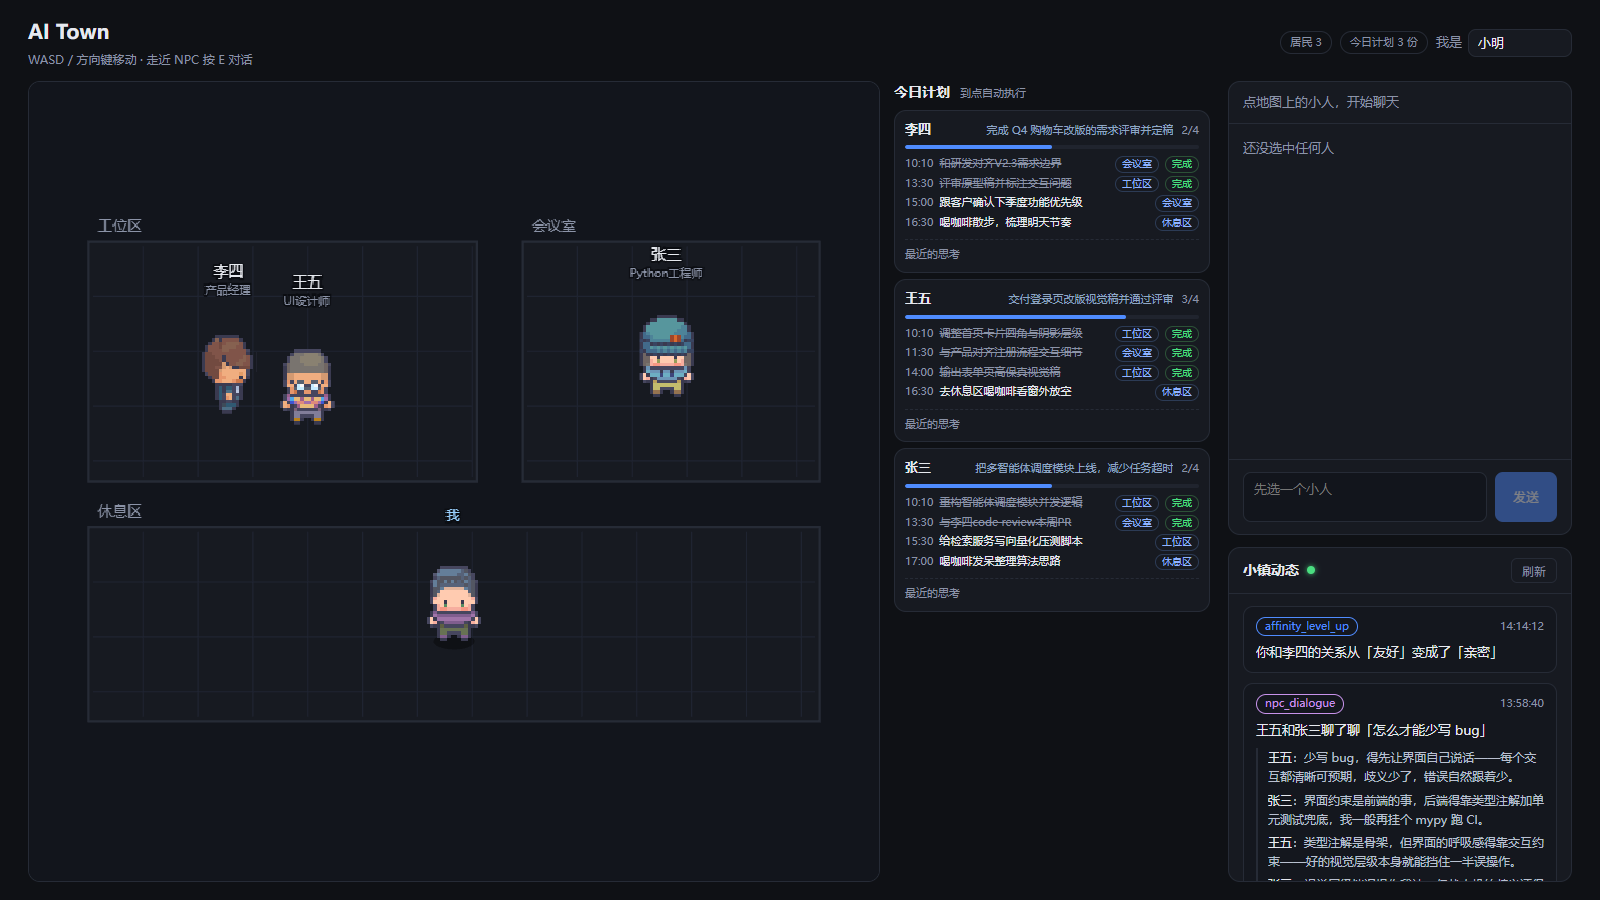
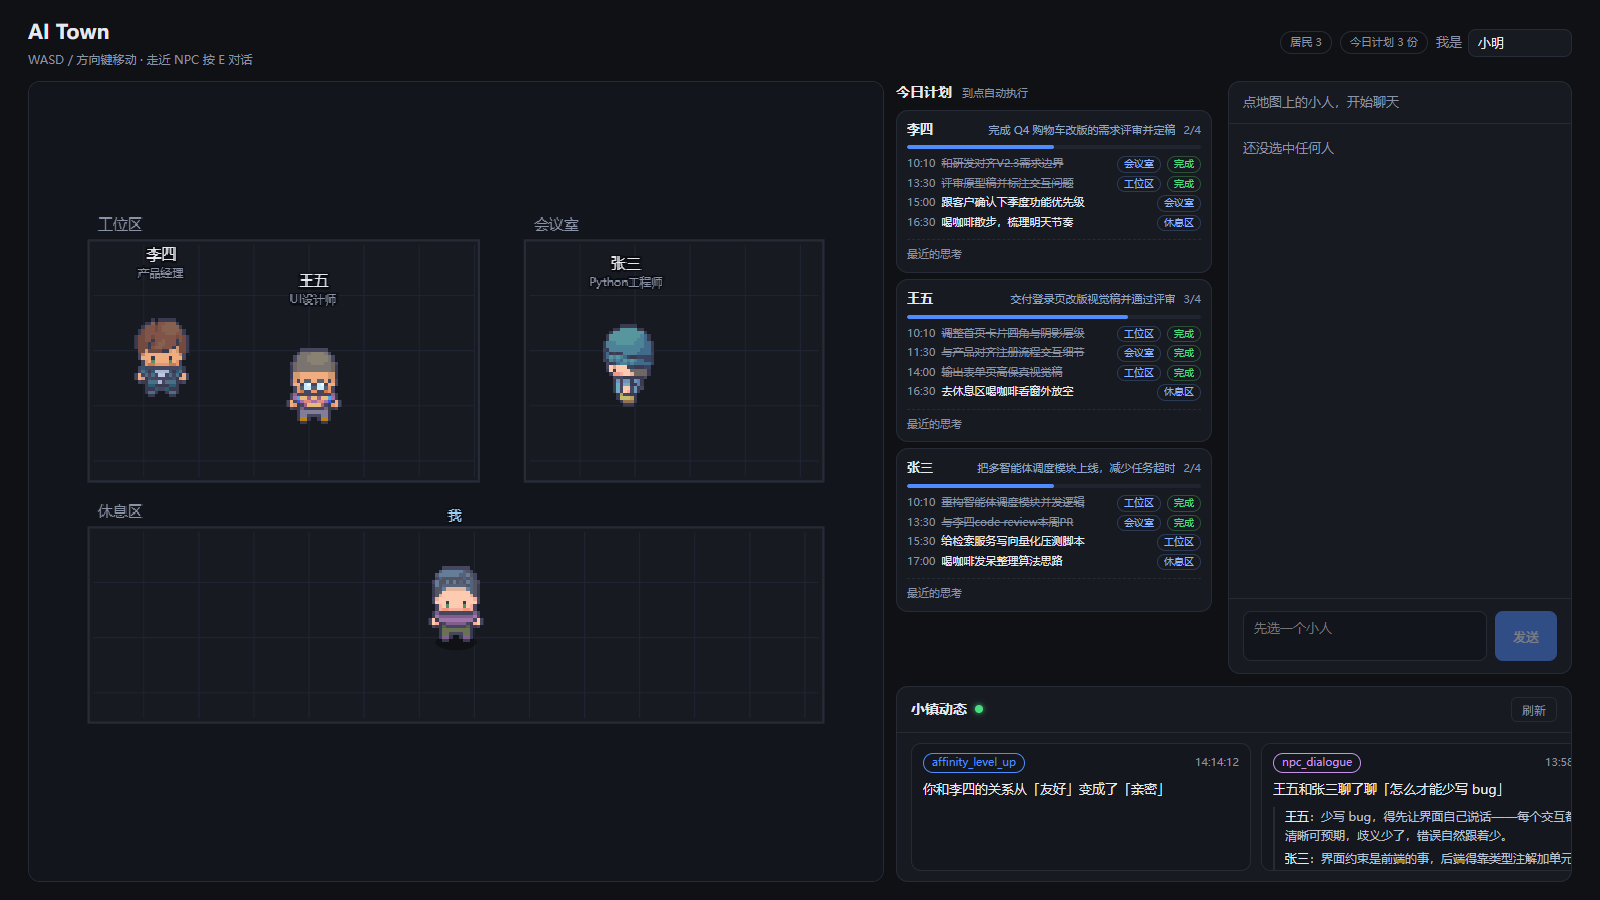
feat(web): 小镇动态改为底部横排通栏，右侧三块上下对齐
布局：宽屏改为『左侧画布占满两行 + 右侧上排（今日计划 | 打招呼）+ 下排动态横跨两列』，右侧上沿/下沿与画布齐平，不再出现计划列只到一半、动态被挤到角落的参差感。

EventFeed：列表改为横排（flex row + 横向滚动），每张卡固定宽度、内容超出在卡内纵向滚动。竖排时一屏只能看一条，而对话事件本身很长。

窄屏适配：反思入口的隐藏条件从『宽度 ≤1439』改成『宽度 ≤1439 或高度 ≤820』——底部动态条占走 196px 后，三张卡 + 反思在 732 高的屏上仍会溢出。

1366×768 退回两列：画布占左列整高，右列 计划/打招呼/动态 自上而下，该档装不下四块全部完整，计划卡片内部滚动。

README 更新布局说明与截图（ui-overview / ui-chat）。

diff --git a/web/src/views/TownView.vue b/web/src/views/TownView.vue
@@ -153,7 +153,7 @@ onBeforeUnmount(() => clearInterval(pollTimer))
            左右分栏是为了把画布撑高 —— 上下堆叠时画布被压扁，
            世界的上下边缘会被裁掉。 -->
       <div class="stage">
-        <!-- 第一列：画布独占整列高度 —— 这是主画面，不该被别的面板挤扁 -->
+        <!-- 第一列：画布占满整列（上下两行都归它） -->
         <section class="left">
           <TownCanvas
             :npcs="npcs"
@@ -162,7 +162,7 @@ onBeforeUnmount(() => clearInterval(pollTimer))
           />
         </section>
 
-        <!-- 第二列：今日计划（宽屏时独占一列，卡片不用再挤着看） -->
+        <!-- 第二列：今日计划 -->
         <section class="mid">
           <PlanBoard
             :plans="plans"
@@ -172,11 +172,13 @@ onBeforeUnmount(() => clearInterval(pollTimer))
           />
         </section>
 
-        <!-- 第三列：打招呼（上）+ 小镇动态（下） -->
-        <aside class="side">
+        <!-- 第三列：打招呼 -->
+        <section class="side">
           <ChatPanel :npc="selected" :player-name="playerName" @chatted="onChatted" />
-          <EventFeed :player-id="playerId" @event="onTownEvent" />
-        </aside>
+        </section>
+
+        <!-- 底部横排：小镇动态（横跨计划 + 打招呼两列，与画布下沿对齐） -->
+        <EventFeed class="feed-row" :player-id="playerId" @event="onTownEvent" />
       </div>
     </template>
   </main>
@@ -246,11 +248,16 @@ onBeforeUnmount(() => clearInterval(pollTimer))
   flex: 1 1 auto;
   min-height: 0;
   display: grid;
-  /* 宽屏三列：画布 | 今日计划 | 打招呼 + 动态
-     窄屏两列：画布 | (计划 / 打招呼 / 动态 竖着叠) */
+  /* 三列 + 一条横跨右侧两列的底部动态：
+       画布 | 计划 | 打招呼
+       画布 |   小镇动态（横排）
+     这样画布占满左边整列，右侧上沿与画布齐平、下沿也齐平。 */
   grid-template-columns: minmax(0, 1fr) 320px 344px;
-  grid-template-areas: "left mid side";
-  gap: 14px;
+  grid-template-rows: minmax(0, 1fr) 196px;
+  grid-template-areas:
+    "left mid side"
+    "left feed feed";
+  gap: 12px;
 }
 
 .left {
@@ -260,7 +267,7 @@ onBeforeUnmount(() => clearInterval(pollTimer))
   min-height: 0;
 }
 
-/* 计划独占一列：卡片高度不再被对话/动态挤，三张卡一屏放得下 */
+/* 计划独占一列：卡片高度不再被对话/动态挤 */
 .mid {
   grid-area: mid;
   display: flex;
@@ -268,31 +275,32 @@ onBeforeUnmount(() => clearInterval(pollTimer))
   min-height: 0;
 }
 
-/* 第三列：打招呼（上）+ 动态（下） */
+/* 第三列只有打招呼（动态挪到底部通栏了） */
 .side {
   grid-area: side;
-  display: grid;
-  grid-template-rows: minmax(0, 1.15fr) minmax(0, 0.85fr);
-  gap: 12px;
+  display: flex;
+  flex-direction: column;
   min-height: 0;
 }
 
-/* 中等屏（1366 这类，以及 1920 屏开 125% 缩放后的 ~1528）：三列会把画布压得太窄，
-   退回两列，计划 / 打招呼 / 动态 竖着排在右列 */
+/* 底部横排动态：跨 mid + side 两列 */
+.feed-row {
+  grid-area: feed;
+  min-height: 0;
+}
+
+/* 中等屏（1366 这类）：三列会把画布压得太窄，退回两列。
+   画布仍占满左边整列，右列自上而下是 计划 / 打招呼 / 动态（动态横排、只占右列宽度）。
+   1366×768 这一档装不下"四条都完整"，计划卡片允许内部滚动。 */
 @media (max-width: 1439px) {
   .stage {
     grid-template-columns: minmax(0, 1fr) 404px;
-    grid-template-rows: minmax(0, 2.1fr) minmax(0, 1.45fr);
+    grid-template-rows: minmax(0, 1.75fr) minmax(0, 1fr) 130px;
     grid-template-areas:
       "left mid"
-      "left side";
+      "left side"
+      "left feed";
   }
-  .side { grid-template-rows: minmax(0, 1fr) minmax(0, 0.68fr); }
-}
-
-/* 矮屏（1366×768 这类）：计划面板再要一点空间，避免第三张卡被切 */
-@media (max-height: 820px) and (max-width: 1439px) {
-  .stage { grid-template-rows: minmax(0, 2.3fr) minmax(0, 1.6fr); }
 }
 
 /* 窄屏：完全取消分栏，上下堆叠并允许整页滚动 */
@@ -301,11 +309,12 @@ onBeforeUnmount(() => clearInterval(pollTimer))
   .stage {
     grid-template-columns: 1fr;
     grid-template-rows: none;
-    grid-template-areas: "left" "mid" "side";
+    grid-template-areas: "left" "mid" "feed" "side";
   }
   .left { height: clamp(420px, 56vh, 620px); }
   .mid { max-height: 520px; }
-  .side { grid-template-rows: minmax(360px, auto) minmax(280px, auto); }
+  .feed-row { height: 200px; }
+  .side { height: 380px; }
 }
 
 .hint { color: var(--muted); margin-top: 16px; }

diff --git a/web/src/components/EventFeed.vue b/web/src/components/EventFeed.vue
@@ -184,17 +184,30 @@ function linesOf(event: TownEvent): { speaker: string; text: string }[] {
   list-style: none;
   flex: 1;
   min-height: 0;
-  overflow-y: auto;
-  padding: 12px 14px;
+  /* 横排：动态现在是底部通栏，竖排一屏只能看见一条 */
+  overflow-x: auto;
+  overflow-y: hidden;
+  padding: 10px 14px;
   display: flex;
-  flex-direction: column;
+  flex-direction: row;
+  align-items: stretch;
   gap: 10px;
+  scrollbar-width: thin;
+  scrollbar-color: #2d3340 transparent;
+}
+.list::-webkit-scrollbar { height: 6px; }
+.list::-webkit-scrollbar-thumb {
+  background: #2d3340;
+  border-radius: 999px;
 }
 
 .item {
+  flex: 0 0 clamp(260px, 23vw, 340px);
+  min-height: 0;
+  overflow-y: auto;
   border: 1px solid var(--border);
   border-radius: 10px;
-  padding: 10px 12px;
+  padding: 9px 11px;
   background: #14171e;
 }
 .row {

diff --git a/web/src/components/PlanBoard.vue b/web/src/components/PlanBoard.vue
@@ -238,9 +238,10 @@ li.missed .badge { color: #f87171; border: 1px solid #5a2a2a; }
   border-left: 2px solid #2c3b55;
 }
 
-/* 窄屏给计划列的高度不够：三张卡 + 反思入口会溢出 85px，把最后一张切掉。
-   反思属于"展开才知道"的次要信息，先藏起来；宽屏（三列）照常显示。 */
-@media (max-width: 1439px) {
+/* 计划列高度不够时（窄屏两列 / 矮屏三列 + 底部动态条）：
+   三张卡 + 反思入口会溢出、把最后一张切掉，把反思收起来。
+   宽且高的屏（如 1600×900 以上）照常显示。 */
+@media (max-width: 1439px), (max-height: 820px) {
   .thoughts { display: none; }
 }
 

diff --git a/README.md b/README.md
@@ -34,27 +34,32 @@
 
 > **第一列：小镇画布**（整个世界完整可见，WASD 走动用；走近 NPC 头顶会出现"按 E 对话"）
 > **第二列：今日计划**（卡片带周目标和逐步状态，点一下直接找对应 NPC 聊）
-> **第三列：打招呼 + 小镇动态**（对话在上、事件流在下）
+> **第三列：打招呼**（好感度 + 对话）
+> **底部通栏：小镇动态**（横排卡片，横向滚动；跨计划与对话两列，和画布下沿对齐）
 
-**列数是自适应的**：
+**布局是自适应的**：
 
 | 视口宽度 | 布局 |
 |---|---|
-| ≥ 1440px | **三列**：画布 \| 今日计划 \| 打招呼 + 动态 |
-| 1180–1439px | 两列：画布 \| 计划 / 打招呼 / 动态 竖排 |
+| ≥ 1440px | 画布占满左列整高；右侧上排 `计划 \| 打招呼`，下排 `动态` 横跨两列 |
+| 1180–1439px | 画布 + 右列（计划 / 打招呼 / 动态 自上而下） |
 | < 1180px | 单列上下堆叠，整页滚动 |
 
 > 断点定在 **1440** 而不是 1600：1920 的屏开 125% 缩放后，CSS 宽度只有约 1528，
 > 按 1600 设断点的话这些机器永远看不到三列。
 
-界面布局的四个约束（都是踩出来的）：
+**为什么动态要横着放**：竖排时一屏只能看见一条事件，而对话事件本身很长，
+横排一次能看到 2~3 条、每条还能在卡片内滚动。
+
+界面布局的五个约束（都是踩出来的）：
 
 | 约束 | 为什么 |
 |---|---|
 | **画布独占一列整高** | 上下堆叠时会把它压扁：早期画布只有 480px 高，而世界是 720×520，垂直方向被裁掉了会议室顶部和休息区底部 |
+| **画布尺寸要跟着布局变** | PixiJS 的 `resizeTo` 只监听 `window resize`；计划面板加载完把画布撑高、列数切换都不会触发它，渲染器会一直用旧尺寸把世界画偏（详见踩坑 #10） |
 | **相机优先"装下整个世界"** | 缩放原来按 `min(宽,高)/380` 放大，画布又宽又扁时就裁边。现在按"能装下 720×520"算，装不下（窄屏）才退回跟随 |
 | **同房间的 NPC 按槽位分区走动** | 走动范围原本是整个房间，两个人会走到一起叠住，名字标签也糊成一团 |
-| **窄屏藏掉"最近的思考"** | 反思入口占 28px，两列布局下三张卡会溢出 85px、把最后一张切掉；宽屏（三列）照常显示 |
+| **矮屏 / 窄屏藏掉"最近的思考"** | 反思入口占 28px，高度不够时三张卡会溢出把最后一张切掉；宽且高的屏（≥1440 宽且 ≥820 高）照常显示 |
 
 ## 知识地图（按"想搞懂什么"导航）
 
